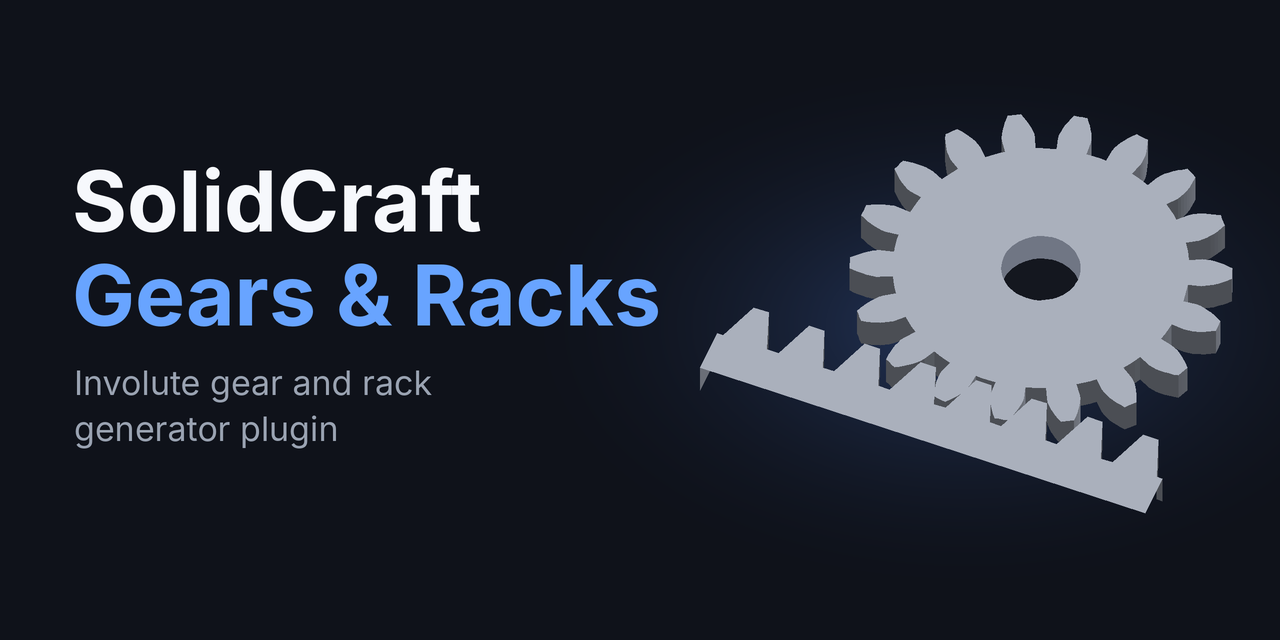
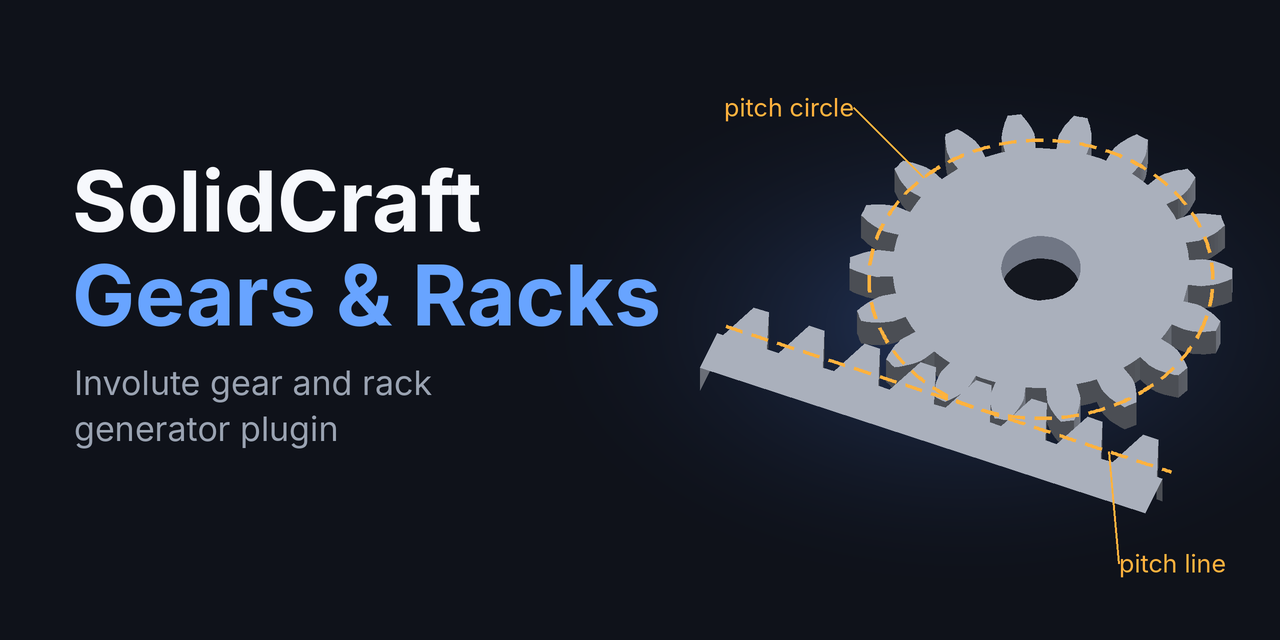
Add files via upload
Release 0.6.1: pitch circle and pitch line at mid-thickness

diff --git a/src/lib.rs b/src/lib.rs
@@ -72,6 +72,18 @@ pub fn make_gear<R: Runner>(r: &mut R, p: &Params, name: &str) -> Result<Value, 
             json!({"diameter": p.bore, "height": p.face_width, "operation": "cut", "name": format!("{name} bore")}),
         )?;
     }
+    // The pitch circle, as construction geometry in a sketch of its own: a reference to dimension
+    // from or to mesh with, never extruded. It sits in the middle of the body (half the face width
+    // up from the XY plane the profile was drawn on) and comes last so it cannot take part in the tooth.
+    r.run(
+        "sketch.create",
+        json!({"plane": "XY", "offset": p.face_width / 2.0, "name": format!("{name} pitch circle")}),
+    )?;
+    r.run(
+        "sketch.circle.center",
+        json!({"center": [0.0, 0.0], "radius": d.pitch_d / 2.0, "construction": true}),
+    )?;
+    r.run("sketch.finish", json!({}))?;
     r.run("component.activate", json!({"component": "root"}))?;
     Ok(json!({
         "component": name,
@@ -117,6 +129,14 @@ pub fn make_rack<R: Runner>(r: &mut R, p: &RackParams, name: &str) -> Result<Val
         "solid.extrude",
         json!({"distance": p.face_width, "profiles": "all", "operation": "new", "name": name, "body_name": name}),
     )?;
+    // The pitch line (y = 0), as construction geometry in a sketch of its own, never extruded. It
+    // sits in the middle of the body, half the face width up from the XY plane of the profile.
+    r.run(
+        "sketch.create",
+        json!({"plane": "XY", "offset": p.face_width / 2.0, "name": format!("{name} pitch line")}),
+    )?;
+    r.run("sketch.line", json!({"points": [[0.0, 0.0], [d.length, 0.0]], "construction": true}))?;
+    r.run("sketch.finish", json!({}))?;
     r.run("component.activate", json!({"component": "root"}))?;
     Ok(json!({
         "component": name,
@@ -253,16 +273,20 @@ mod tests {
         let mut r = Rec(vec![]);
         let out = make_rack(&mut r, &p, "Rack").unwrap();
         let names: Vec<&str> = r.0.iter().map(|(c, _)| c.as_str()).collect();
-        // component, sketch, 4 lines per tooth + 4 for the ends and body, finish, extrude, back to root
+        // component, sketch, 4 lines per tooth + 4 for the ends and body, finish, extrude, the pitch
+        // line sketch (create, line, finish), back to root
         assert_eq!(names.first(), Some(&"component.create"));
         assert_eq!(names[1], "sketch.create");
-        assert_eq!(names.iter().filter(|c| **c == "sketch.line").count(), 4 * 5 + 4);
-        assert_eq!(names[names.len() - 3], "sketch.finish");
-        assert_eq!(names[names.len() - 2], "solid.extrude");
-        assert_eq!(names.last(), Some(&"component.activate"));
+        assert_eq!(names.iter().filter(|c| **c == "sketch.line").count(), 4 * 5 + 4 + 1);
+        assert_eq!(
+            &names[names.len() - 6..],
+            &["sketch.finish", "solid.extrude", "sketch.create", "sketch.line", "sketch.finish", "component.activate"][..]
+        );
         assert!((out["length"].as_f64().unwrap() - 5.0 * PI_2()).abs() < 1e-9);
-        // every line joins the previous one end to start (closed loop)
-        let lines: Vec<&Value> = r.0.iter().filter(|(c, _)| c == "sketch.line").map(|(_, a)| a).collect();
+        // every line of the outline joins the previous one end to start (closed loop); the pitch line
+        // is construction geometry and stands apart
+        let lines: Vec<&Value> =
+            r.0.iter().filter(|(c, a)| c == "sketch.line" && a.get("construction").is_none()).map(|(_, a)| a).collect();
         for i in 0..lines.len() {
             assert_eq!(lines[i]["points"][1], lines[(i + 1) % lines.len()]["points"][0]);
         }
@@ -433,6 +457,87 @@ mod tests {
         let out = make(&mut g, &parse_request(GEARS, &json!({"module": 2, "teeth": 20, "addendum": 1.2, "dedendum": 1.5})).unwrap()).unwrap();
         assert!((out["outer_diameter"].as_f64().unwrap() - 44.8).abs() < 1e-9);
         assert!((out["root_diameter"].as_f64().unwrap() - 34.0).abs() < 1e-9);
+    }
+
+    #[test]
+    fn the_pitch_circle_is_construction_geometry_in_its_own_sketch() {
+        let mut r = Rec(vec![]);
+        let mut v = json!({"module": 2, "teeth": 20, "bore_diameter": 6});
+        v["name"] = json!("Pinion");
+        make(&mut r, &parse_request(GEARS, &v).unwrap()).unwrap();
+        let names: Vec<&str> = r.0.iter().map(|(c, _)| c.as_str()).collect();
+        // last three steps before returning to the root: sketch, circle, finish
+        assert_eq!(&names[names.len() - 4..], &["sketch.create", "sketch.circle.center", "sketch.finish", "component.activate"][..]);
+        let n = r.0.len();
+        assert_eq!(r.0[n - 4].1, json!({"plane": "XY", "offset": 5.0, "name": "Pinion pitch circle"}));
+        // pitch diameter m z = 40, so radius 20, centred on the origin, construction
+        assert_eq!(r.0[n - 3].1, json!({"center": [0.0, 0.0], "radius": 20.0, "construction": true}));
+        // it comes after the tooth, the pattern and the bore, so none of them can pick it up
+        let at = |c: &str| names.iter().position(|x| *x == c).unwrap();
+        assert!(at("solid.pattern.circular") < n - 4);
+        assert_eq!(names.iter().filter(|c| **c == "sketch.circle.center").count(), 1);
+        assert_eq!(names.iter().filter(|c| **c == "solid.extrude").count(), 1);
+    }
+
+    #[test]
+    fn the_pitch_line_is_construction_geometry_in_its_own_sketch() {
+        let mut r = Rec(vec![]);
+        let mut v = json!({"module": 2, "teeth": 5});
+        v["name"] = json!("Bar");
+        make(&mut r, &parse_request(RACKS, &v).unwrap()).unwrap();
+        let n = r.0.len();
+        let names: Vec<&str> = r.0.iter().map(|(c, _)| c.as_str()).collect();
+        assert_eq!(&names[n - 5..], &["solid.extrude", "sketch.create", "sketch.line", "sketch.finish", "component.activate"][..]);
+        assert_eq!(r.0[n - 4].1, json!({"plane": "XY", "offset": 5.0, "name": "Bar pitch line"}));
+        // along the whole rack on y = 0: length 5 pi m
+        let line = &r.0[n - 3].1;
+        assert_eq!(line["construction"], json!(true));
+        assert_eq!(line["points"][0], json!([0.0, 0.0]));
+        assert!((line["points"][1][0].as_f64().unwrap() - 5.0 * PI_2()).abs() < 1e-9);
+        assert_eq!(line["points"][1][1], json!(0.0));
+        // only the outline sketch is extruded
+        assert_eq!(names.iter().filter(|c| **c == "solid.extrude").count(), 1);
+    }
+
+    #[test]
+    fn every_command_the_plugin_sends_is_allowed_by_the_manifest() {
+        let m: Value = serde_json::from_str(include_str!("../plugin.json")).unwrap();
+        let allowed: Vec<&str> = m["runtime"]["commands"].as_array().unwrap().iter().map(|c| c.as_str().unwrap()).collect();
+        let mut sent: Vec<String> = Vec::new();
+        for (entry, v) in [(GEARS, json!({"bore_diameter": 6})), (RACKS, json!({"teeth": 3}))] {
+            let mut r = Rec(vec![]);
+            make(&mut r, &parse_request(entry, &v).unwrap()).unwrap();
+            sent.extend(r.0.into_iter().map(|(c, _)| c));
+        }
+        for c in &sent {
+            assert!(allowed.contains(&c.as_str()), "{c} is not in the manifest's commands");
+        }
+        // and the manifest asks for nothing the plugin does not use
+        for c in &allowed {
+            assert!(sent.iter().any(|s| s == c), "{c} is allowed but never sent");
+        }
+    }
+
+    #[test]
+    fn the_construction_geometry_is_in_the_middle_of_the_body() {
+        // half the face width above the plane of the profile, whatever the thickness
+        for width in [3.0, 7.0, 10.0, 24.0] {
+            let mut g = Rec(vec![]);
+            make(&mut g, &parse_request(GEARS, &json!({"face_width": width})).unwrap()).unwrap();
+            let mut k = Rec(vec![]);
+            make(&mut k, &parse_request(RACKS, &json!({"face_width": width, "teeth": 3})).unwrap()).unwrap();
+            for r in [&g, &k] {
+                // the body runs from z = 0 to z = width ...
+                let ext: Vec<&Value> = r.0.iter().filter(|(c, _)| c == "solid.extrude").map(|(_, a)| a).collect();
+                assert_eq!(ext.len(), 1);
+                assert_eq!(ext[0]["distance"].as_f64().unwrap(), width);
+                // ... the profile sketch is on the plane itself, the construction sketch half way up
+                let sketches: Vec<&Value> = r.0.iter().filter(|(c, _)| c == "sketch.create").map(|(_, a)| a).collect();
+                assert_eq!(sketches.len(), 2);
+                assert!(sketches[0].get("offset").is_none(), "the profile stays on the XY plane");
+                assert_eq!(sketches[1]["offset"].as_f64().unwrap(), width / 2.0);
+            }
+        }
     }
 
     #[allow(non_snake_case)]

diff --git a/README.md b/README.md
@@ -2,9 +2,7 @@
 
 # SolidCraft Gears
 
-Based on [solidcraft-gears](https://github.com/bherbruck/solidcraft-gears) by bherbruck (MIT). This version adds racks, one component per part, and separate Gears and Racks menu entries.
-
-An involute spur gear and rack generator for [SolidCraft](https://github.com/tangency-labs/solidcraft). The plugin adds two items to SolidCraft's plugins menu, **Gears** and **Racks**. Each one opens a dialog, draws the profile in a sketch and extrudes it, using ordinary SolidCraft commands. What lands in your design is a normal timeline (a sketch, an extrude, and for gears a hub, a circular pattern and an optional bore), so you can open any of those features afterwards and change them. It is not a mesh.
+An involute spur gear and rack generator for [SolidCraft](https://github.com/tangency-labs/solidcraft). The plugin adds two items to SolidCraft's plugins menu, **Gears** and **Racks**. Each one opens a dialog, draws the profile in a sketch and extrudes it, using ordinary SolidCraft commands. What lands in your design is a normal timeline (a sketch, an extrude, and for gears a hub, a circular pattern and an optional bore), so you can open any of those features afterwards and change them. It is not a mesh. Each part also gets its pitch circle (gears) or pitch line (racks) as construction geometry, in the middle of the body, to dimension from or constrain to.
 
 Every run builds its part **in its own component**, so a gear and a rack (or two gears) stay independent and can be moved, constrained and exported separately.
 
@@ -46,7 +44,7 @@ All sizes are millimetres. The entry ids (`gears`, `racks`) are lowercase becaus
 | `bore_diameter` | 0 | Centre hole; 0 means none |
 | `profile_shift` | 0 | Profile shift coefficient x, -1 to 1 |
 
-The gear sits on the XY plane, centred on the origin, extruded up along +Z. The reply gives the pitch, base, outer and root diameters, and the addendum and dedendum used.
+The gear sits on the XY plane, centred on the origin, extruded up along +Z. Its pitch circle (diameter m z, centred on the origin) is drawn as a construction circle in a sketch called `<name> pitch circle`, on a plane half the face width above the XY plane, so it sits in the middle of the body's thickness. The reply gives the pitch, base, outer and root diameters, and the addendum and dedendum used.
 
 `addendum` and `dedendum` are multiples of the module, so they scale with it: with module 2 and the defaults the teeth stand 2 mm above and 2.5 mm below the pitch circle. Outer diameter is m (z + 2 ha + 2 x) and root diameter is m (z - 2 hf + 2 x), x being the profile shift. They do not change the tooth thickness on the pitch circle.
 
@@ -63,7 +61,7 @@ The gear sits on the XY plane, centred on the origin, extruded up along +Z. The 
 | `dedendum` | 1.25 | Dedendum coefficient hf: tooth depth below the pitch line, in modules, 0.3 to 2.5 |
 | `body_height` | 6 | Material below the root line |
 
-The rack lies along +X on the XY plane, from x = 0 to its length, extruded up along +Z. Its pitch line is y = 0 and its teeth point towards +Y (tips at y = ha m, roots at y = -hf m, back at y = -hf m - body height). The reply gives the pitch, length and total height, and the addendum and dedendum used.
+The rack lies along +X on the XY plane, from x = 0 to its length, extruded up along +Z. Its pitch line is y = 0 and its teeth point towards +Y (tips at y = ha m, roots at y = -hf m, back at y = -hf m - body height). The pitch line is drawn as a construction line along the whole rack in a sketch called `<name> pitch line`, on a plane half the face width above the XY plane, in the middle of the rack's thickness. The reply gives the pitch, length and total height, and the addendum and dedendum used.
 
 ### Making them mesh
 
@@ -104,7 +102,8 @@ Use `"entry": "racks"` for a rack.
 
 - The straight-flanked limit of the involute: flanks inclined at the pressure angle, addendum 1 m and dedendum 1.25 m by default, circular pitch pi m. Addendum and dedendum are adjustable. Tooth thickness on the pitch line is pi m / 2, and the tooth is m (pi/2 - 2 ha tan a) wide at the tip.
 - The whole outline is one closed polyline (4 edges per tooth), extruded once. There is no pattern, so long racks stay cheap; the cap of 100 teeth is only there because every edge is one host command.
-- Each part's features carry its name (`<name> tooth profile`, `<name> tooth`, `<name> bore`), so two gears in one design do not get mixed up.
+- Each part's features carry its name (`<name> tooth profile`, `<name> tooth`, `<name> bore`, `<name> pitch circle`, `<name> pitch line`), so two gears in one design do not get mixed up.
+- The pitch circle and the pitch line are construction geometry in a sketch of their own, on a plane at mid-thickness (offset face width / 2 from the plane the profile was drawn on), made last, so they are never extruded and cannot take part in the tooth or the pattern.
 
 If a combination of addendum, dedendum, pressure angle and profile shift would make a tooth come to a point or make neighbouring teeth touch at the root, the plugin stops with a message that names the field to change.
 
@@ -112,7 +111,7 @@ Not modelled: undercut for very small tooth counts (hence the minimum of 8), bac
 
 ## Tests
 
-`cargo test` checks the math (diameters, tooth thickness at the pitch circle and pitch line, flank angle, that the profiles close up), the commands each entry sends (one component per run, named after the part, back to the root at the end), parameter validation, and the manifest (entry ids, field order, description length).
+`cargo test` checks the math (diameters, tooth thickness at the pitch circle and pitch line, flank angle, that the profiles close up), the commands each entry sends (one component per run, named after the part, the construction sketch of the pitch circle or line, back to the root at the end, and that every command sent is allowed by the manifest), parameter validation, and the manifest (entry ids, field order, description length).
 
 `tests/cli_test.py` runs the built plugin through `solidcraft-cli`, saves each design, and measures the result: one closed solid in its own component, the tooth count from the number of tip faces, the outer diameter from the largest cylinder, the bore, the face width, the pitch diameter by cutting a thin ring around d = m z out of the gear, and for racks the length, the height and the volume.
 
@@ -135,7 +134,7 @@ tests/         end to end test through solidcraft-cli
 
 ## Releases
 
-Pushing a tag like `v0.5.0` runs `.github/workflows/release.yml`, which builds the plugin and attaches `solidcraft-gears-0.5.0.zip` and `solidcraft-gears-0.5.0.zip.sha256` to a GitHub release. The version in `Cargo.toml` and `plugin.json` has to match the tag.
+Pushing a tag like `v0.6.1` runs `.github/workflows/release.yml`, which builds the plugin and attaches `solidcraft-gears-0.6.1.zip` and `solidcraft-gears-0.6.1.zip.sha256` to a GitHub release. The version in `Cargo.toml` and `plugin.json` has to match the tag.
 
 ## License
 
